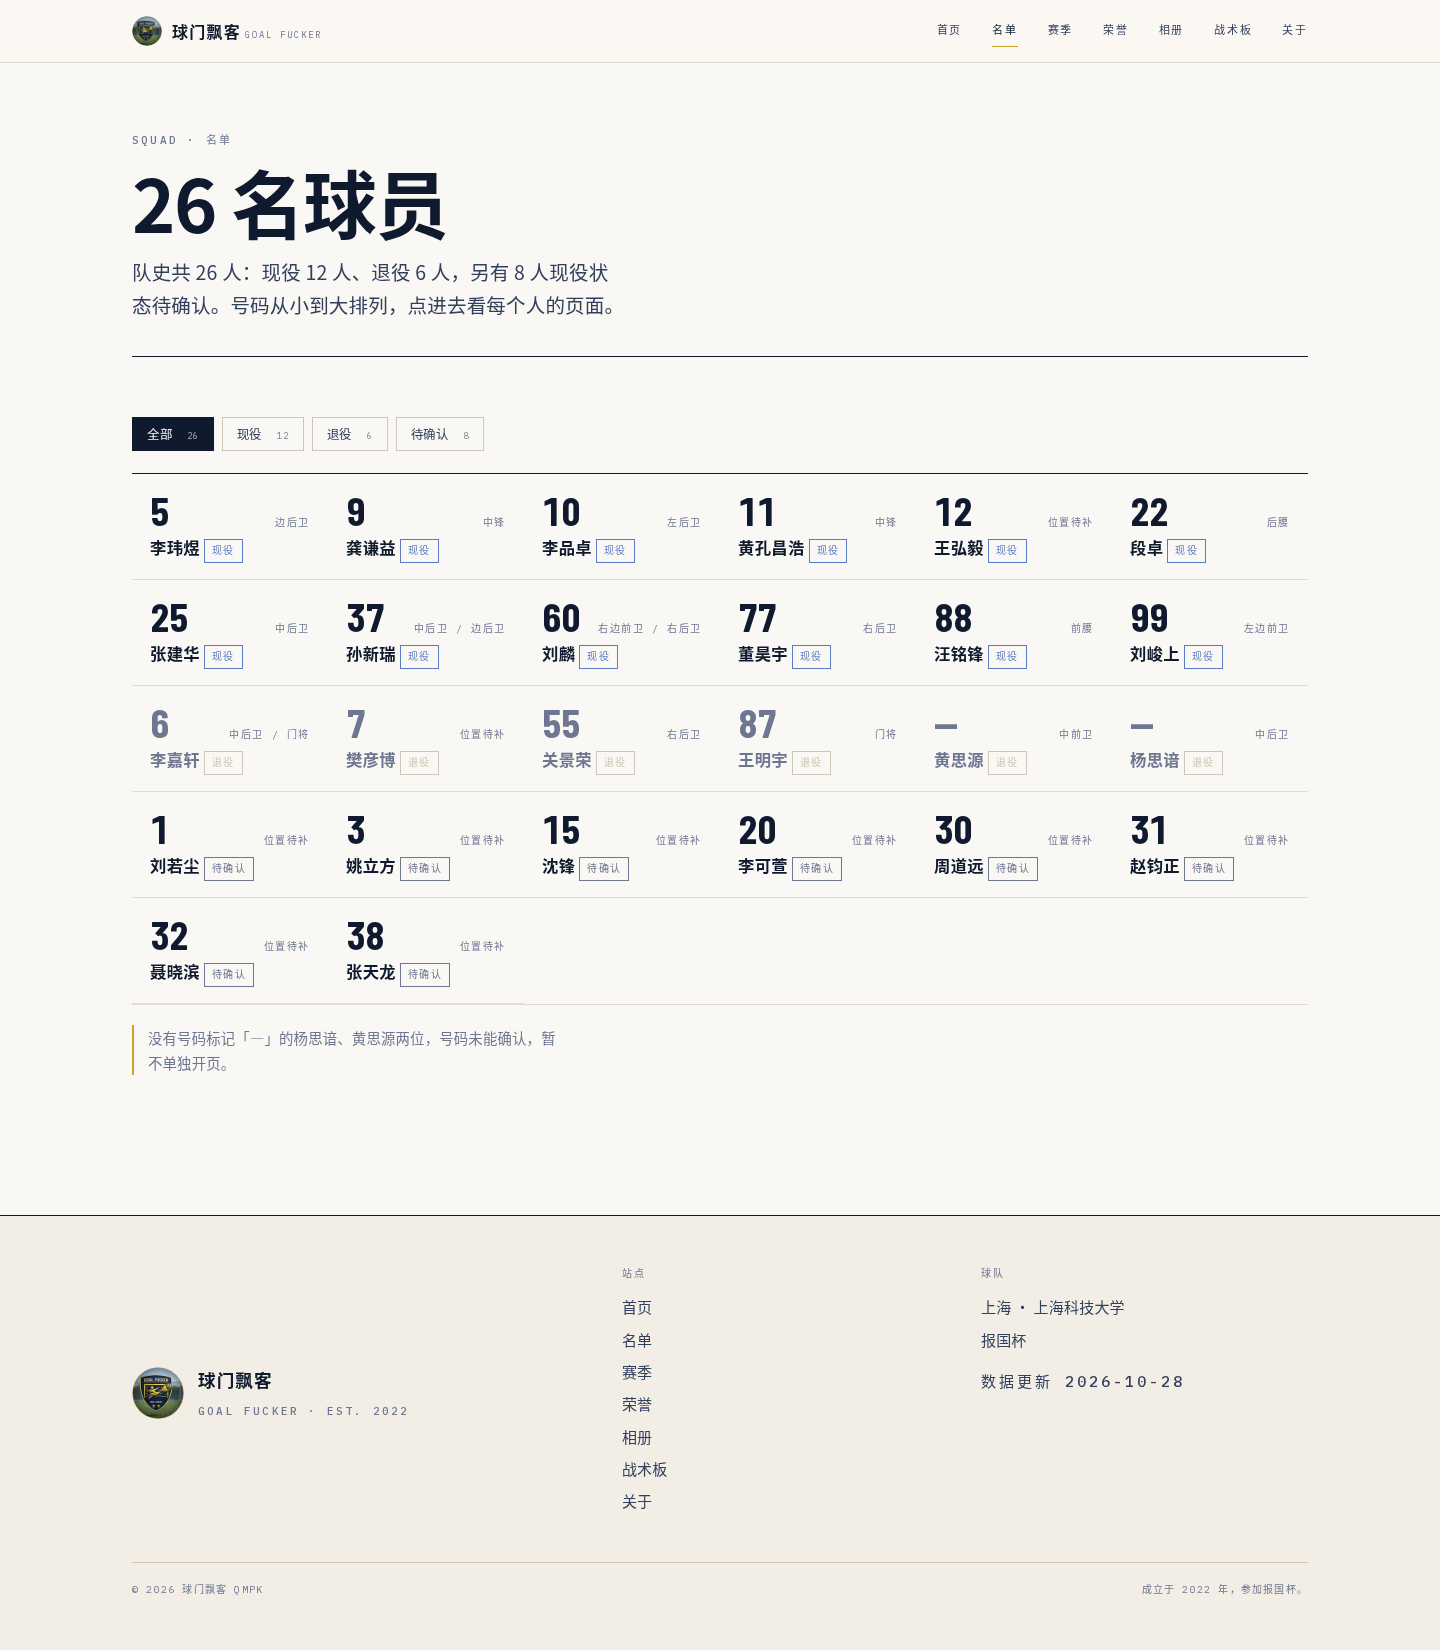
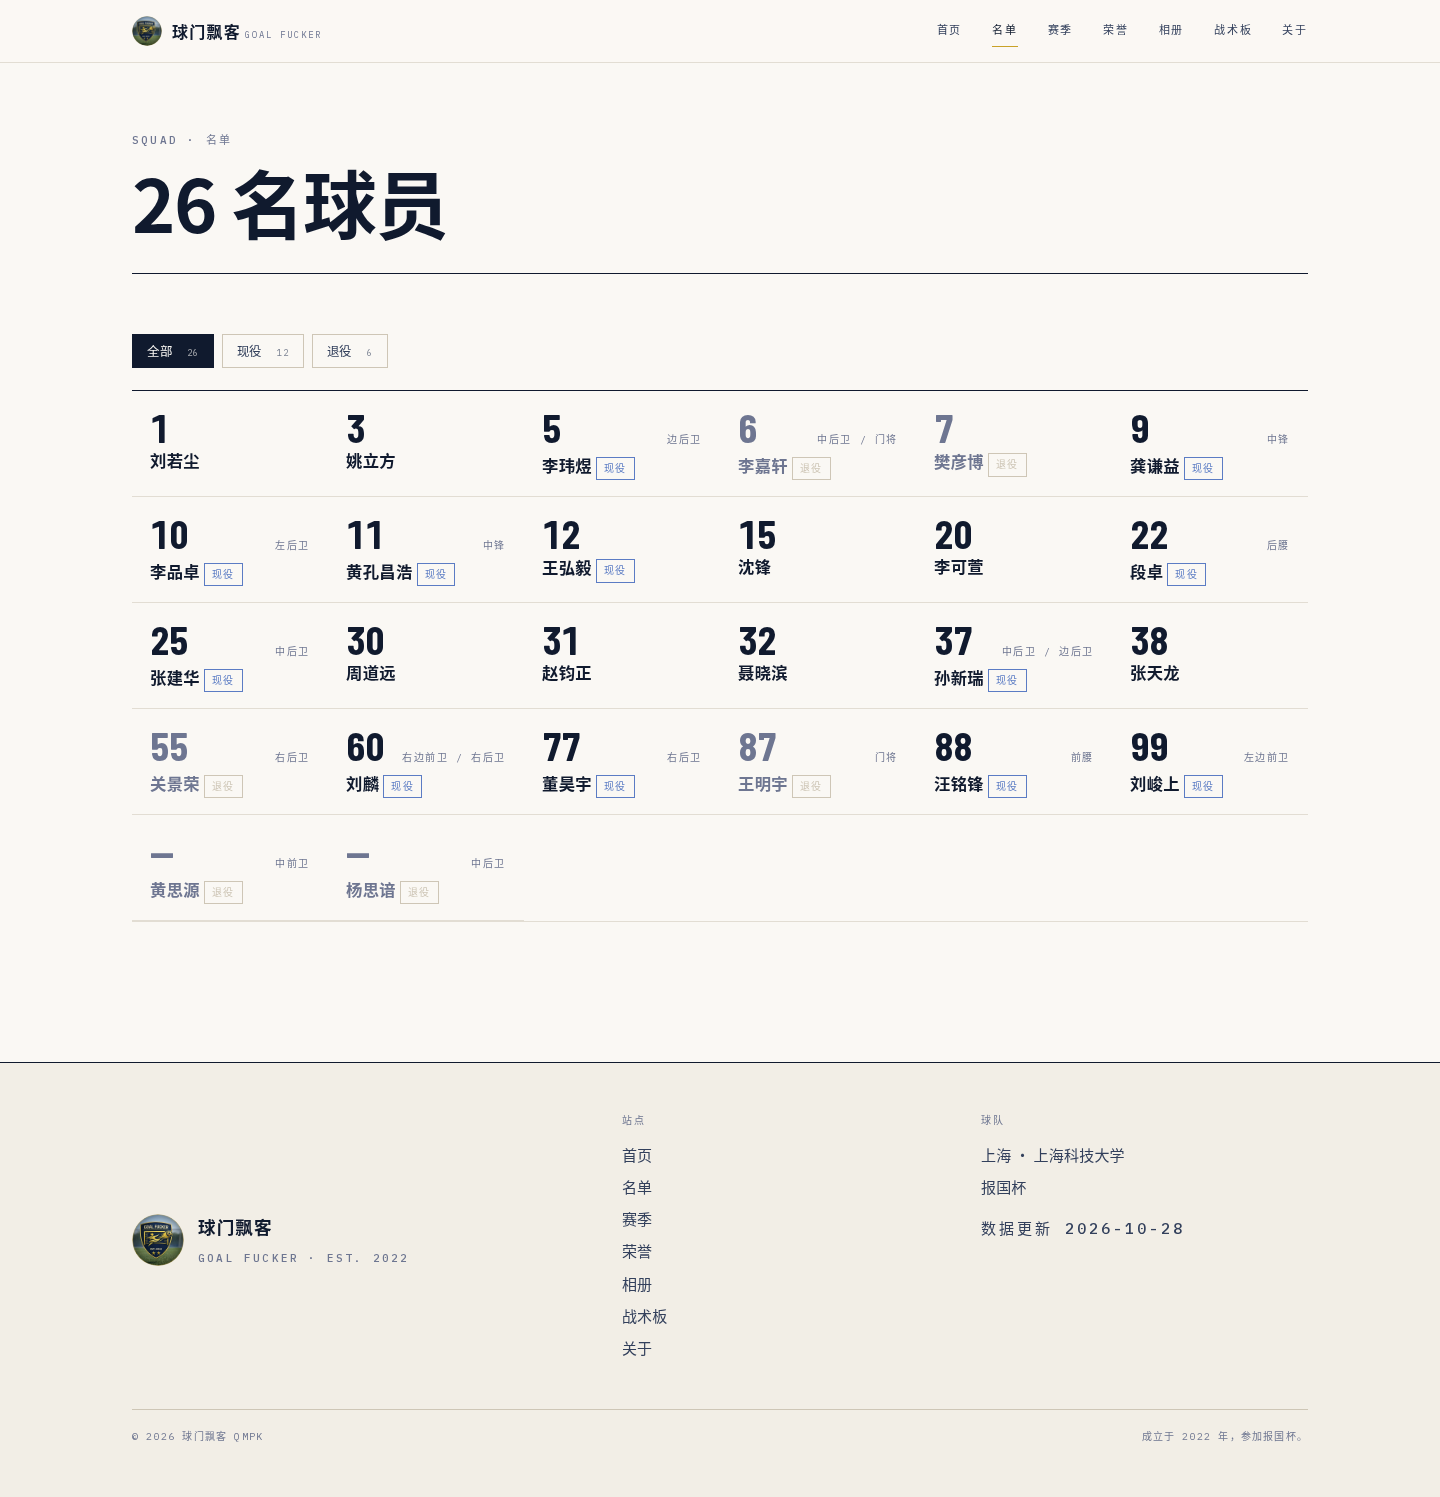
fix(squad): 修复筛选失效，按号码排序，去掉多余说明文字
- [hidden] 被 .player{display:block} 覆盖，导致点现役仍显示全部；加 !important 兜底
- 名单统一按号码升序，无号码的排末尾，不再按状态分组
- 去掉页头统计说明、待确认提示、缺号码说明等开发期文案
- 状态徽章只保留现役/退役，未确认的不显示徽章
- 首页移除与统计条重复的三项小字，统计格改为现役人数

diff --git a/src/styles/global.css b/src/styles/global.css
@@ -1403,6 +1403,11 @@ p {
   }
 }
 
+/* hidden 必须压过组件自身的 display 值，否则筛选按钮点不动 */
+[hidden] {
+  display: none !important;
+}
+
 /* ---------- 名单：现役状态 ---------- */
 
 .filters {
